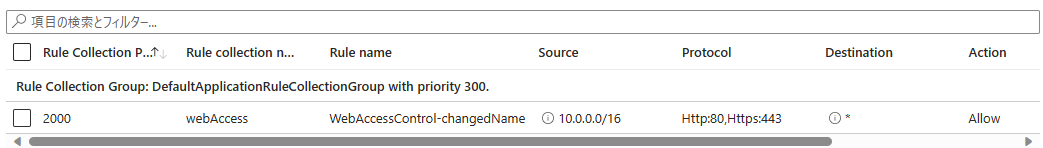
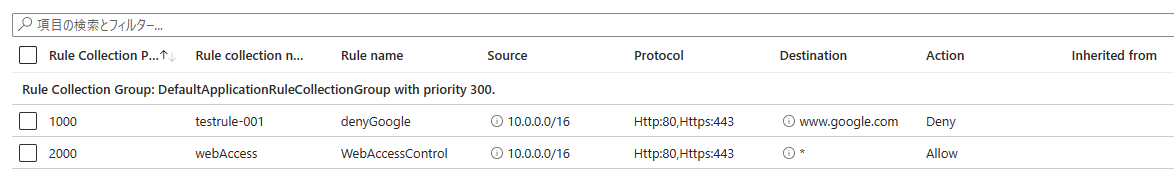
explicit proxy

diff --git a/articles/3b09d30d75b82e.md b/articles/3b09d30d75b82e.md
@@ -2,7 +2,7 @@
 title: "Azure Firewallの明示的なプロキシ(Explicit Proxy)によってプロキシ構成を簡素化する"
 emoji: "🙌"
 type: "tech" # tech: 技術記事 / idea: アイデア
-topics: ["Azure","firewall","プロキシ","L7"]
+topics: ["Azure","firewall","Proxy","L7"]
 published: false
 ---
 # これは何
@@ -47,7 +47,7 @@ https://techcommunity.microsoft.com/t5/azure-network-security-blog/demystifying-
 ![](/images/20230909-fwExpProxy/01.png)
 *Internet access via Azure default NAT*
 ## Azure Firewall アプリケーションルールの作成
-- とりあえずhttp/httpsですべてのFQDNにアクセスできるようにしておく
+- とりあえずhttp/httpsで`www.google.com`以外のすべてのFQDNにアクセスできるようにしておく
 ![](/images/20230909-fwExpProxy/08.png)
 
 ## 明示的なプロキシの有効化
@@ -108,4 +108,67 @@ https://jpdsi.github.io/blog/internet-explorer-microsoft-edge/pac/
 ![](/images/20230909-fwExpProxy/07.png)
 *Proxy Auto Setting w/ Azure Firewall Private IP*
  
+## アプリケーションルールのフィルタ確認
+- 前述のようにこのFirewallポリシーでは`www.google.com`のみDenyとしている
+- `www.google.com`にアクセスしてみると正しく遮断された
+![](/images/20230909-fwExpProxy/09.png)
+- それ以外の、例えば`www.youtube.com`は何事もなくアクセスできた
+![](/images/20230909-fwExpProxy/10.png)
 
+:::message
+明示的プロキシはアプリケーション ルールに依存しているため、次の図に示すように、すべてのログは "AZFWApplicationRules" テーブルで使用できます。
+:::
+
+- アプリケーションルールでフィルタをしているため、アプリケーショーンルールの中で使えるようなFQDNタグやWebカテゴリなどの機能が利用できるのも嬉しい点
+![](/images/20230909-fwExpProxy/11.png)
+
+## SASURLの期限が切れていたらどうなるか？
+- SASには期限がつきものなので、期限切れの場合にどうなるかは要注意ポイント
+- 前提として、Firewall Policyに対して、何等か変更がかかる(PUT処理)のタイミングでSASの先のPACファイルを取りに行く
+    - つまり、期限が切れていても暫くは動作はする
+
+### SAS期限切れの状態でアプリケーションルールをいじってみる-その１
+- SASが切れた状態で本環境のアプリケーションルールから`denyGoogle`の規則を削除してみる（=全許可の状態になる）
+- すると、[規則の削除失敗]というエラーが表示されるが、Azure Portal上は確かに削除される
+![](/images/20230909-fwExpProxy/12.png)
+*rule deletion error*
+![](/images/20230909-fwExpProxy/13.png)
+*actually deleted on Azure Portal*
+
+- この状態で、プロキシのクライアントから`www.google.com`へ再度アクセスすると、ルールを削除しているにもかかわらずブロックされる
+![](/images/20230909-fwExpProxy/14.png)
+
+
+### SAS期限切れの状態でアプリケーションルールをいじってみる-その２
+- その１の状態でSASを再発行し、Azure Firewallを正しい状態に戻す
+![](/images/20230909-fwExpProxy/15.png)
+*Application Rule: All Allow*
+
+- `www.google.com`にアクセス可能なことを確認
+![](/images/20230909-fwExpProxy/16.png)
+
+- SASの期限が切れた後で、アプリケーションルールを削除し、ルールなし(＝全拒否)の状態にする
+- 先ほど同様エラーは出るものの、ルールは削除される
+![](/images/20230909-fwExpProxy/17.png)
+
+- クライアントから`www.google.com`にアクセス可能なままとなっている
+![](/images/20230909-fwExpProxy/18.png)
+
+
+### Firewallポリシーの他の変更はどうか
+- 試しにDNSの設定を変更してみると、こちらも同様エラーが出るのだが、状態は変更前の状態に戻された
+![](/images/20230909-fwExpProxy/18.png)
+
+:::message:alert
+- この検証結果を見ると、**SASの期限切れ後のアプリケーションルールの変更**については通ってしまっているように見える
+- よって、**Azure Portal上の見え方とクライアント経由での実際の挙動が異なるという不整合が生じた状態**となってしまうため、要注意
+:::
+
+# おわり
+- Azure Firewallがある環境においては、オンプレや外部のプロキシを通さずとも、Azure Firewallのアプリケーションルールベースでフィルタリングできるのが管理しやすい
+- FQDNタグを利用すれば、Microsoft系のサービスについてのアクセスも容易に制御できるため、運用はかなり楽になりそう
+- 注意点としては、AzureFirewallにPACファイルを認識させる場合にSASURL経由となるため、有効期限の更新管理が必要となる点で、ここが原因によるエラーだと気づきにくいのも罠
+- 何よりリソースの状態と挙動に不整合が起きるのでだいぶよろしくない
+- SASで期限を気にするくらいならPACファイルを配置するサーバを立てた方がいいのでは？
+
+という感じでした
